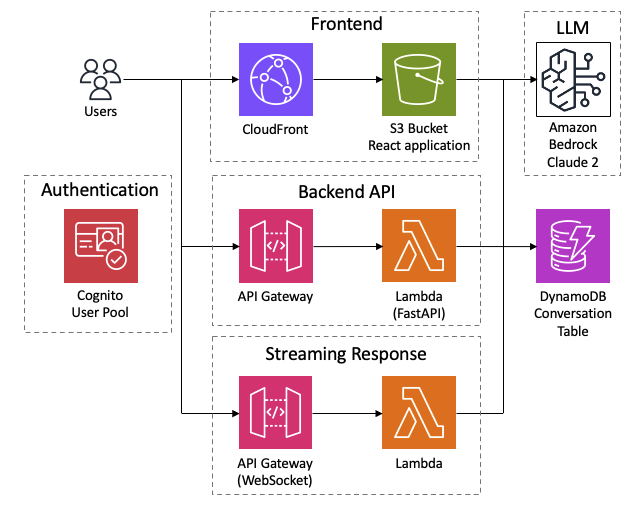
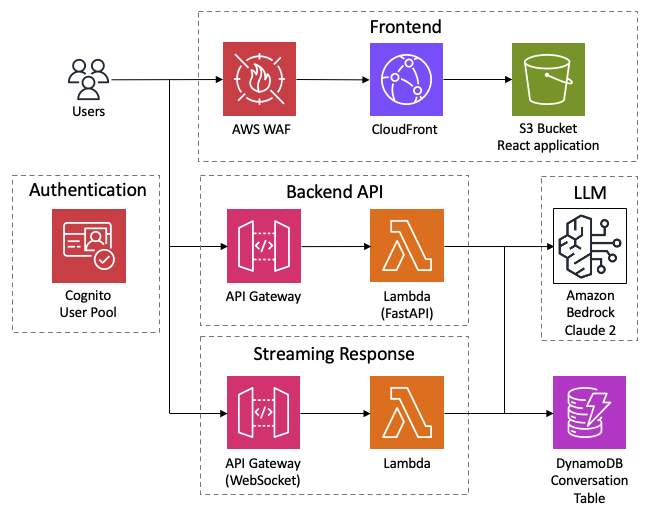
Feature/ip address restriction (#44)
* wip

* fix doc: cdk deploy

Changed region(s): [[0.0304, 0.0312, 1.0, 0.9688], [0.6992, 0.6562, 0.7296, 0.6875]]

diff --git a/cdk/lib/frontend-waf-stack.ts b/cdk/lib/frontend-waf-stack.ts
@@ -1,0 +1,86 @@
+import * as cdk from "aws-cdk-lib";
+import { CfnOutput, Stack, StackProps } from "aws-cdk-lib";
+import * as wafv2 from "aws-cdk-lib/aws-wafv2";
+import { Construct } from "constructs";
+
+interface FrontendWafStackProps extends StackProps {
+  readonly allowedIpV4AddressRanges: string[];
+  readonly allowedIpV6AddressRanges: string[];
+}
+
+/**
+ * Frontend WAF
+ */
+export class FrontendWafStack extends Stack {
+  /**
+   * Web ACL ARN
+   */
+  public readonly webAclArn: CfnOutput;
+
+  constructor(scope: Construct, id: string, props: FrontendWafStackProps) {
+    super(scope, id, props);
+
+    // create Ipset for ACL
+    const ipV4SetReferenceStatement = new wafv2.CfnIPSet(
+      this,
+      "FrontendIpV4Set",
+      {
+        ipAddressVersion: "IPV4",
+        scope: "CLOUDFRONT",
+        addresses: props.allowedIpV4AddressRanges,
+      }
+    );
+    const ipV6SetReferenceStatement = new wafv2.CfnIPSet(
+      this,
+      "FrontendIpV6Set",
+      {
+        ipAddressVersion: "IPV6",
+        scope: "CLOUDFRONT",
+        addresses: props.allowedIpV6AddressRanges,
+      }
+    );
+
+    const webAcl = new wafv2.CfnWebACL(this, "WebAcl", {
+      defaultAction: { block: {} },
+      name: "FrontendWebAcl",
+      scope: "CLOUDFRONT",
+      visibilityConfig: {
+        cloudWatchMetricsEnabled: true,
+        metricName: "FrontendWebAcl",
+        sampledRequestsEnabled: true,
+      },
+      rules: [
+        {
+          priority: 0,
+          name: "FrontendWebAclIpV4RuleSet",
+          action: { allow: {} },
+          visibilityConfig: {
+            cloudWatchMetricsEnabled: true,
+            metricName: "FrontendWebAcl",
+            sampledRequestsEnabled: true,
+          },
+          statement: {
+            ipSetReferenceStatement: { arn: ipV4SetReferenceStatement.attrArn },
+          },
+        },
+        {
+          priority: 1,
+          name: "FrontendWebAclIpV6RuleSet",
+          action: { allow: {} },
+          visibilityConfig: {
+            cloudWatchMetricsEnabled: true,
+            metricName: "FrontendWebAcl",
+            sampledRequestsEnabled: true,
+          },
+          statement: {
+            ipSetReferenceStatement: { arn: ipV6SetReferenceStatement.attrArn },
+          },
+        },
+      ],
+    });
+
+    this.webAclArn = new cdk.CfnOutput(this, "WebAclId", {
+      value: webAcl.attrArn,
+    });
+  }
+}

diff --git a/cdk/bin/bedrock-chat.ts b/cdk/bin/bedrock-chat.ts
@@ -2,13 +2,36 @@
 import "source-map-support/register";
 import * as cdk from "aws-cdk-lib";
 import { BedrockChatStack } from "../lib/bedrock-chat-stack";
+import { FrontendWafStack } from "../lib/frontend-waf-stack";
 
 const app = new cdk.App();
 
 const BEDROCK_REGION = app.node.tryGetContext("bedrockRegion");
 const BEDROCK_ENDPOINT_URL = app.node.tryGetContext("bedrockEndpointUrl");
+const ALLOWED_IP_V4_ADDRESS_RANGES: string[] = app.node.tryGetContext(
+  "allowedIpV4AddressRanges"
+);
+const ALLOWED_IP_V6_ADDRESS_RANGES: string[] = app.node.tryGetContext(
+  "allowedIpV6AddressRanges"
+);
+
+// WAF for frontend
+// 2023/9: Currently, the WAF for CloudFront needs to be created in the North America region (us-east-1), so the stacks are separated
+// https://docs.aws.amazon.com/AWSCloudFormation/latest/UserGuide/aws-resource-wafv2-webacl.html
+const waf = new FrontendWafStack(app, `FrontendWafStack`, {
+  env: {
+    region: "us-east-1",
+  },
+  allowedIpV4AddressRanges: ALLOWED_IP_V4_ADDRESS_RANGES,
+  allowedIpV6AddressRanges: ALLOWED_IP_V6_ADDRESS_RANGES,
+});
 
 new BedrockChatStack(app, `BedrockChatStack`, {
+  env: {
+    region: process.env.CDK_DEFAULT_REGION,
+  },
+  crossRegionReferences: true,
   bedrockRegion: BEDROCK_REGION,
   bedrockEndpointUrl: BEDROCK_ENDPOINT_URL,
+  webAclId: waf.webAclArn.value,
 });

diff --git a/cdk/lib/bedrock-chat-stack.ts b/cdk/lib/bedrock-chat-stack.ts
@@ -16,6 +16,7 @@ import * as cdk from "aws-cdk-lib";
 export interface BedrockChatStackProps extends StackProps {
   readonly bedrockRegion: string;
   readonly bedrockEndpointUrl: string;
+  readonly webAclId: string;
 }
 
 export class BedrockChatStack extends cdk.Stack {
@@ -33,6 +34,7 @@ export class BedrockChatStack extends cdk.Stack {
 
     const auth = new Auth(this, "Auth");
     const database = new Database(this, "Database");
+
     const backendApi = new Api(this, "BackendApi", {
       database: database.table,
       auth,
@@ -55,6 +57,7 @@ export class BedrockChatStack extends cdk.Stack {
       webSocketApiEndpoint: websocket.apiEndpoint,
       auth,
       accessLogBucket,
+      webAclId: props.webAclId,
     });
 
     new CfnOutput(this, "FrontendURL", {

diff --git a/cdk/lib/constructs/frontend.ts b/cdk/lib/constructs/frontend.ts
@@ -18,6 +18,7 @@ export interface FrontendProps {
   readonly webSocketApiEndpoint: string;
   readonly auth: Auth;
   readonly accessLogBucket: IBucket;
+  readonly webAclId: string;
 }
 
 export class Frontend extends Construct {
@@ -69,6 +70,7 @@ export class Frontend extends Construct {
         bucket: props.accessLogBucket,
         prefix: "Frontend/",
       },
+      webACLId: props.webAclId,
     });
 
     new NodejsBuild(this, "ReactBuild", {

diff --git a/cdk/lib/constructs/api.ts b/cdk/lib/constructs/api.ts
@@ -1,5 +1,5 @@
 import { Construct } from "constructs";
-import { CfnOutput, Duration } from "aws-cdk-lib";
+import { ArnFormat, CfnOutput, Duration } from "aws-cdk-lib";
 import { ITable } from "aws-cdk-lib/aws-dynamodb";
 import { HttpLambdaIntegration } from "@aws-cdk/aws-apigatewayv2-integrations-alpha";
 import { HttpUserPoolAuthorizer } from "@aws-cdk/aws-apigatewayv2-authorizers-alpha";

diff --git a/README.md b/README.md
@@ -14,12 +14,13 @@ It's an architecture built on AWS managed services, eliminating the need for inf
 - [Amazon DynamoDB](https://aws.amazon.com/dynamodb/): NoSQL database for conversation history storage
 - [Amazon API Gateway](https://aws.amazon.com/api-gateway/) + [AWS Lambda](https://aws.amazon.com/lambda/): Backend API endpoint ([AWS Lambda Web Adapter](https://github.com/awslabs/aws-lambda-web-adapter), [FastAPI](https://fastapi.tiangolo.com/))
 - [Amazon CloudFront](https://aws.amazon.com/cloudfront/) + [S3](https://aws.amazon.com/s3/): Frontend application delivery ([React](https://react.dev/), [Tailwind CSS](https://tailwindcss.com/))
+- [AWS WAF](https://aws.amazon.com/waf/): IP address restriction
 - [Amazon Cognito](https://aws.amazon.com/cognito/): User authentication
 - [Amazon Bedrock](https://aws.amazon.com/bedrock/): Managed service to utilize foundational models via APIs
 
 ![](docs/imgs/arch.png)
 
-## Features
+## Features and Roadmap
 
 - [x] Authentication (Sign-up, Sign-in)
 - [x] Creation, storage, and deletion of conversations
@@ -28,12 +29,15 @@ It's an architecture built on AWS managed services, eliminating the need for inf
 - [x] Syntax highlighting for code
 - [x] Rendering of Markdown'
 - [x] Streaming Response
+- [x] IP address restriction
+- [ ] Edit message & re-send
+- [ ] I18n (English / Japanese)
 
 ## Deployment
 
 ### Prerequisites
 
-- **As of August 2023, Bedrock is under preview, and applications are required for usage.**
+- **As of Sep 2023, Bedrock is under preview, and applications are required for usage.**
 
 ### 🚀 Easy Deployment
 
@@ -97,11 +101,12 @@ cdk bootstrap aws://<account id>/us-east-1
 
   - `bedrockRegion`: Region where Bedrock is available.
   - `bedrockEndpointUrl`: URL of the Bedrock endpoint.
+  - `allowedIpV4AddressRanges`, `allowedIpV6AddressRanges`: Allowed IP Address range.
 
 - Deploy this sample project
 
 ```
-cdk deploy --require-approval never
+cdk deploy --require-approval never --all
 ```
 
 - You will get output similar to the following. The URL of the web app will be output in `BedrockChatStack.FrontendURL`, so please access it from your browser.
